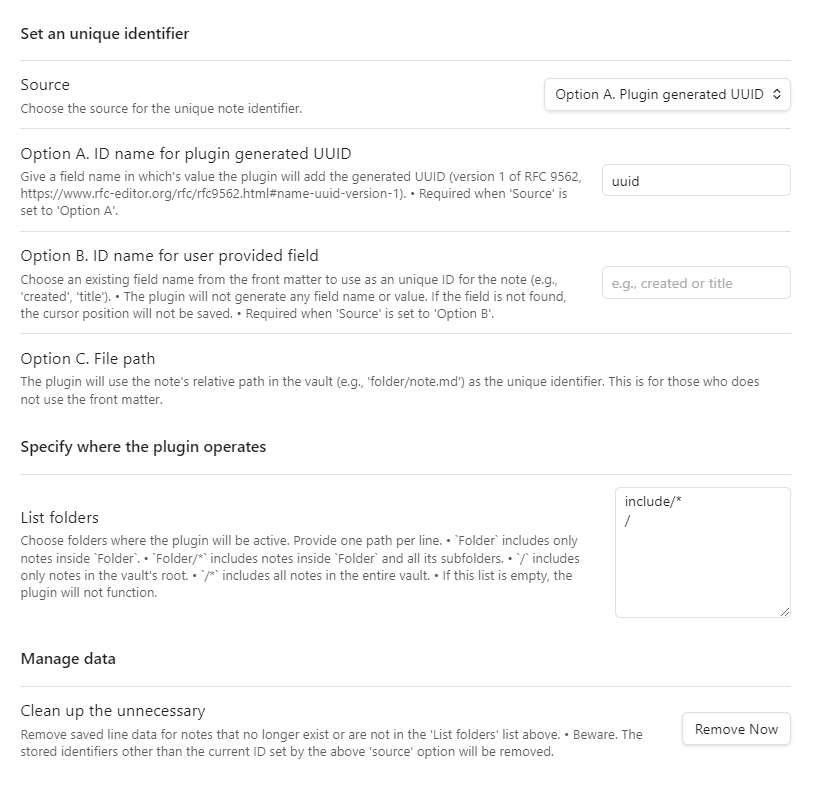
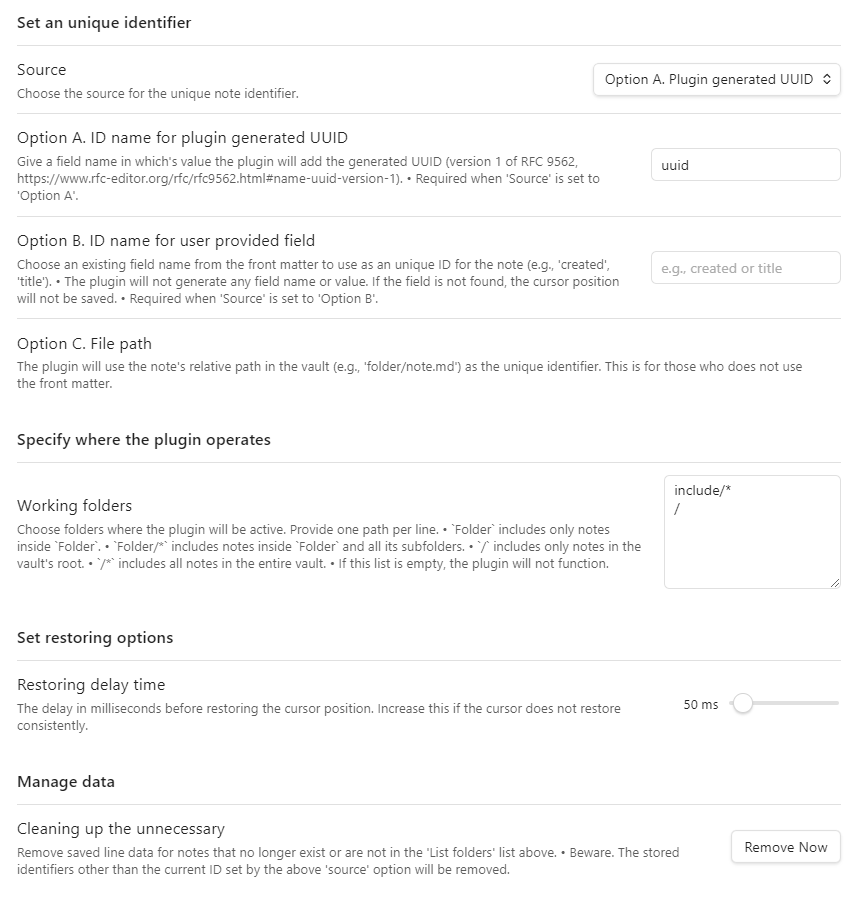
0.1.4

diff --git a/README.md b/README.md
@@ -11,7 +11,7 @@
 - To do this, internally
 
   - the plugin utilizes `unique identifier`, which can be one of `plugin generated UUID`, `user provided field`, or `file path`
-  
+
   - When editing a note, the plugin stores the note's `unique identifier` as well as the edit line number and character number.
 
 ## how a user can use the plugin
@@ -38,6 +38,10 @@
 - `/*` means the rood and all the sub folders.
 - `folder` means the folder in the root.
 - `folder/*` means the folder and all its sub folders.
+
+### set restoring delay time
+
+- 10ms to 1000ms, 10ms steps
 
 ### remove the unnecessary
 
